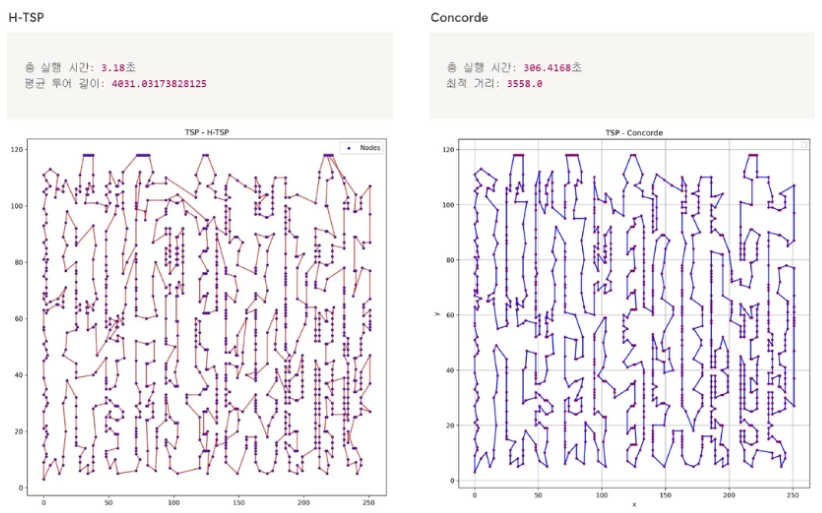
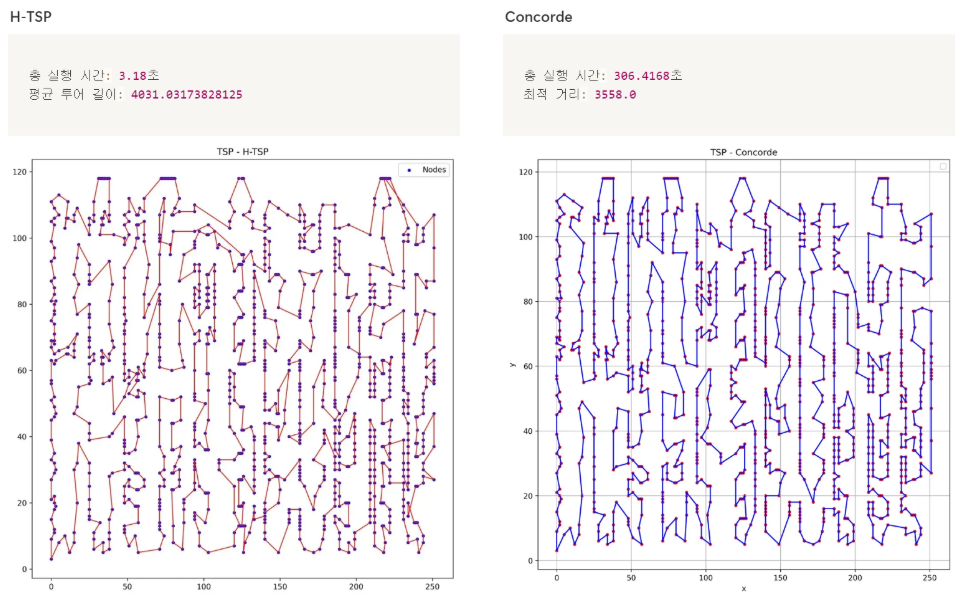
fix: 이미지 크기 작게 및 이미지 화질 향상

diff --git a/projects/tilda_intern/index.html b/projects/tilda_intern/index.html
@@ -32,12 +32,15 @@
     }
     .project-figure {
       margin: 24px 0 12px;
+      text-align: center; /* 이미지와 캡션을 가운데로 */
     }
     .project-figure img {
-      width: 100%;
+      width: 60%; /* 사진 크기를 본문의 60%로 줄임 */
+      max-width: 100%;
       height: auto;
       border-radius: 12px;
       display: block;
+      margin: 0 auto 12px; /* 사진 자체를 가운데 정렬 */
       border: 1px solid #eee;
     }
     .caption {
@@ -126,11 +129,15 @@
         <h4>[프로젝트 요약]</h4>
         <ul>
           <li><strong>목적:</strong> H-TSP 모델 성능 재현을 통한 대규모 경로 최적화 알고리즘 검증</li>
-          <li><strong>성과:</strong> 기존 최적화 패키지(Concorde) 대비 <strong>실행 속도 100배 향상</strong> 확인 및 H-TSP 공식 레포지토리 <strong>논리 오류 발견 및 수정 기여 (GitHub Issue 2건 반영)</strong></li>
+          <li><strong>성과:</strong> 성능 재현 및 H-TSP 공식 레포지토리 <strong>논리 오류 발견 및 수정 기여 (GitHub Issue 2건 반영)</strong></li>
         </ul>
       </div>
 
       <h3>1. 연구 및 재현</h3>
+      <figure class="project-figure">
+        <img src="./h_tsp.png" alt="H-TSP Model Overview" loading="lazy" />
+        <figcaption class="caption"><strong>Figure 1.</strong> H-TSP 모델의 계층적 접근 방식</figcaption>
+      </figure>
       <ul>
         <li><strong>TSP (Traveling Salesman Problem):</strong> 노드와 노드 간의 거리가 주어졌을 때 모든 노드를 정확히 한 번씩 방문하는 최단 거리를 찾는 문제</li>
         <li><strong>기존 방식의 한계 분석:</strong> TSP의 스케일이 커질수록 학습, 추론 시간이 크게 늘어나며 초기 해 품질이 전체 성능에 큰 영향을 미치는 문제를 확인</li>
@@ -138,18 +145,12 @@
       </ul>
 
       <figure class="project-figure">
-        <img src="./h_tsp.png" alt="H-TSP Model Overview" loading="lazy" />
-        <figcaption class="caption"><strong>Figure 1.</strong> H-TSP 모델의 계층적 접근 방식</figcaption>
-      </figure>
-
-      <ul>
-        <li><strong>성능 비교 결과:</strong> 전통적 알고리즘(Concorde) 대비 정확도는 소폭 낮으나, 실행 시간을 <strong>100배 이상 단축</strong>하여 실시간 경로 계획 가능성 확인</li>
-      </ul>
-
-      <figure class="project-figure">
         <img src="./h_tsp_results.png" alt="H-TSP Results" loading="lazy" />
         <figcaption class="caption"><strong>Figure 2.</strong> H-TSP 모델 성능 재현 및 비교 결과</figcaption>
       </figure>
+      <ul>
+        <li><strong>성능 비교 결과:</strong> 전통적 알고리즘(Concorde) 대비 정확도는 소폭 낮으나, 실행 시간을 <strong>100배 이상 단축</strong>하여 실시간 경로 계획 가능성 확인</li>
+      </ul>
 
       <h3>2. 문제 해결 및 오픈소스 기여</h3>
       <ul>
